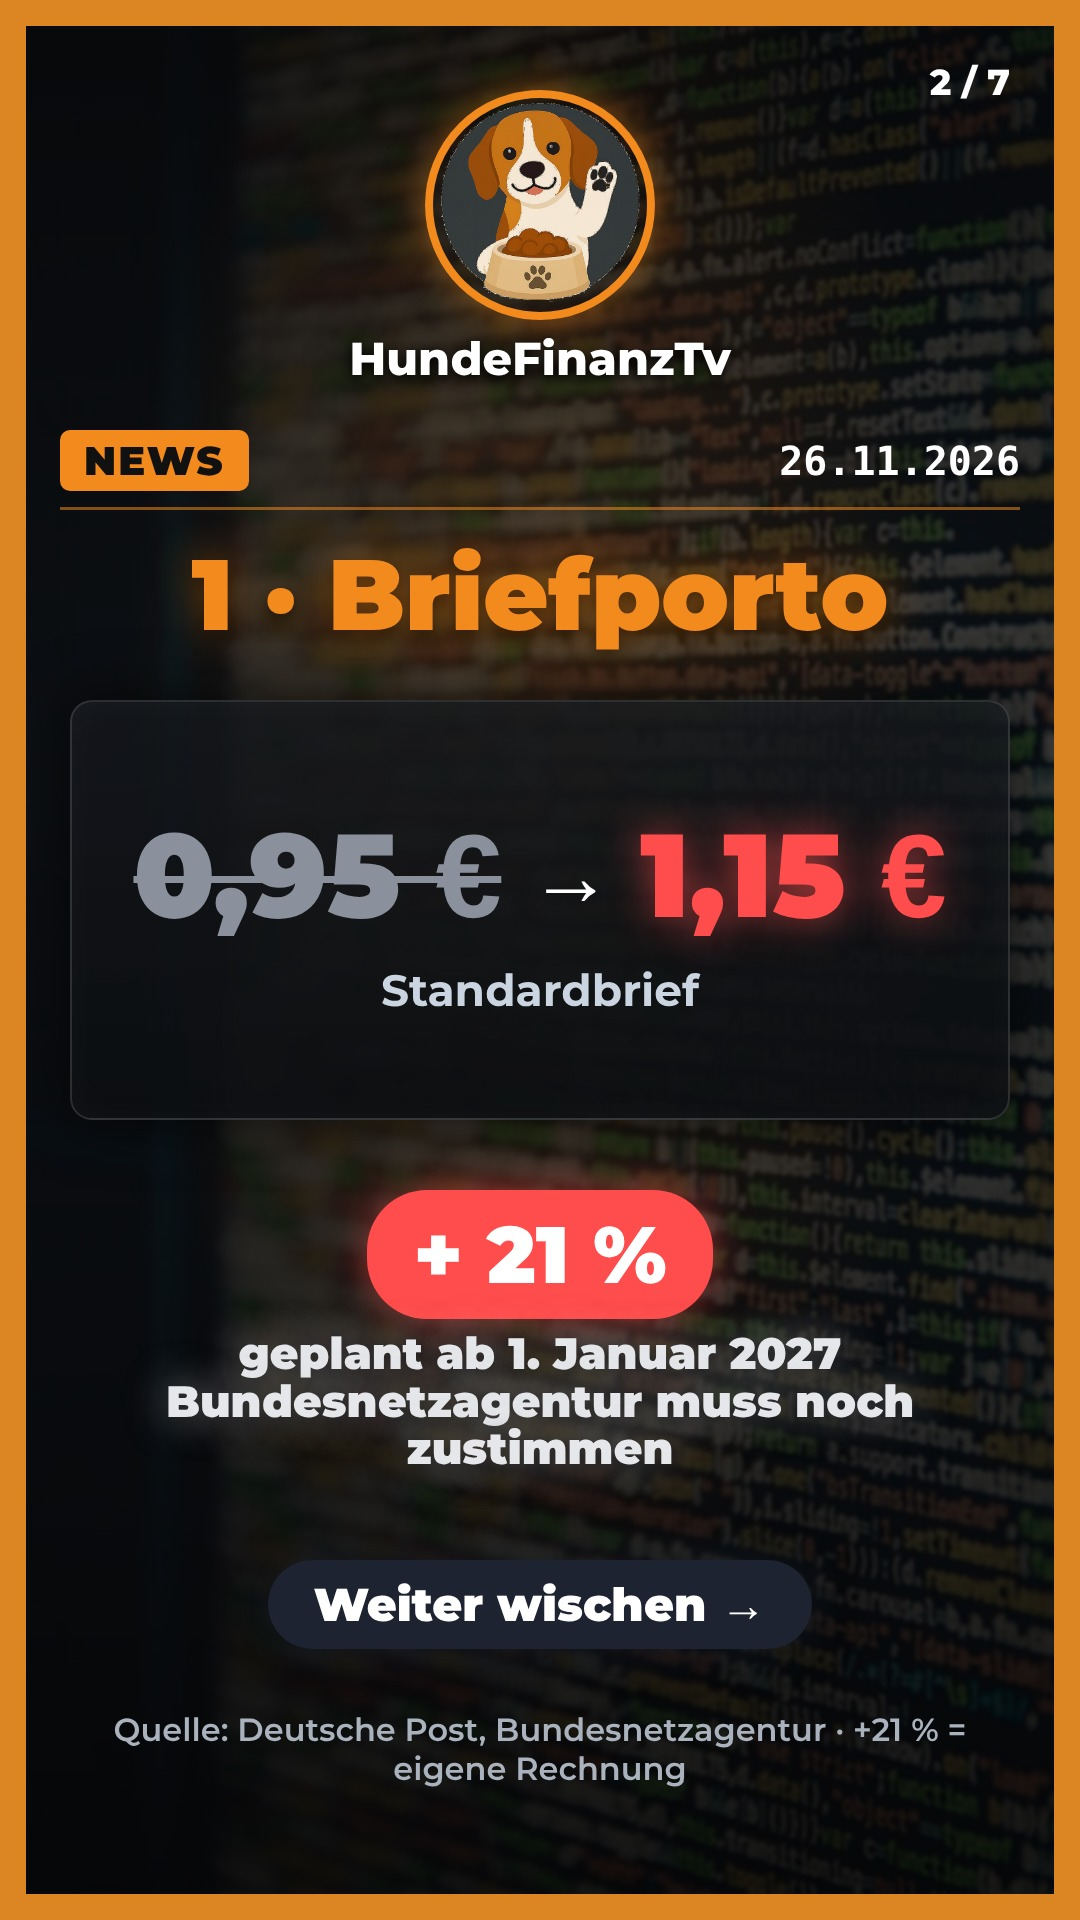
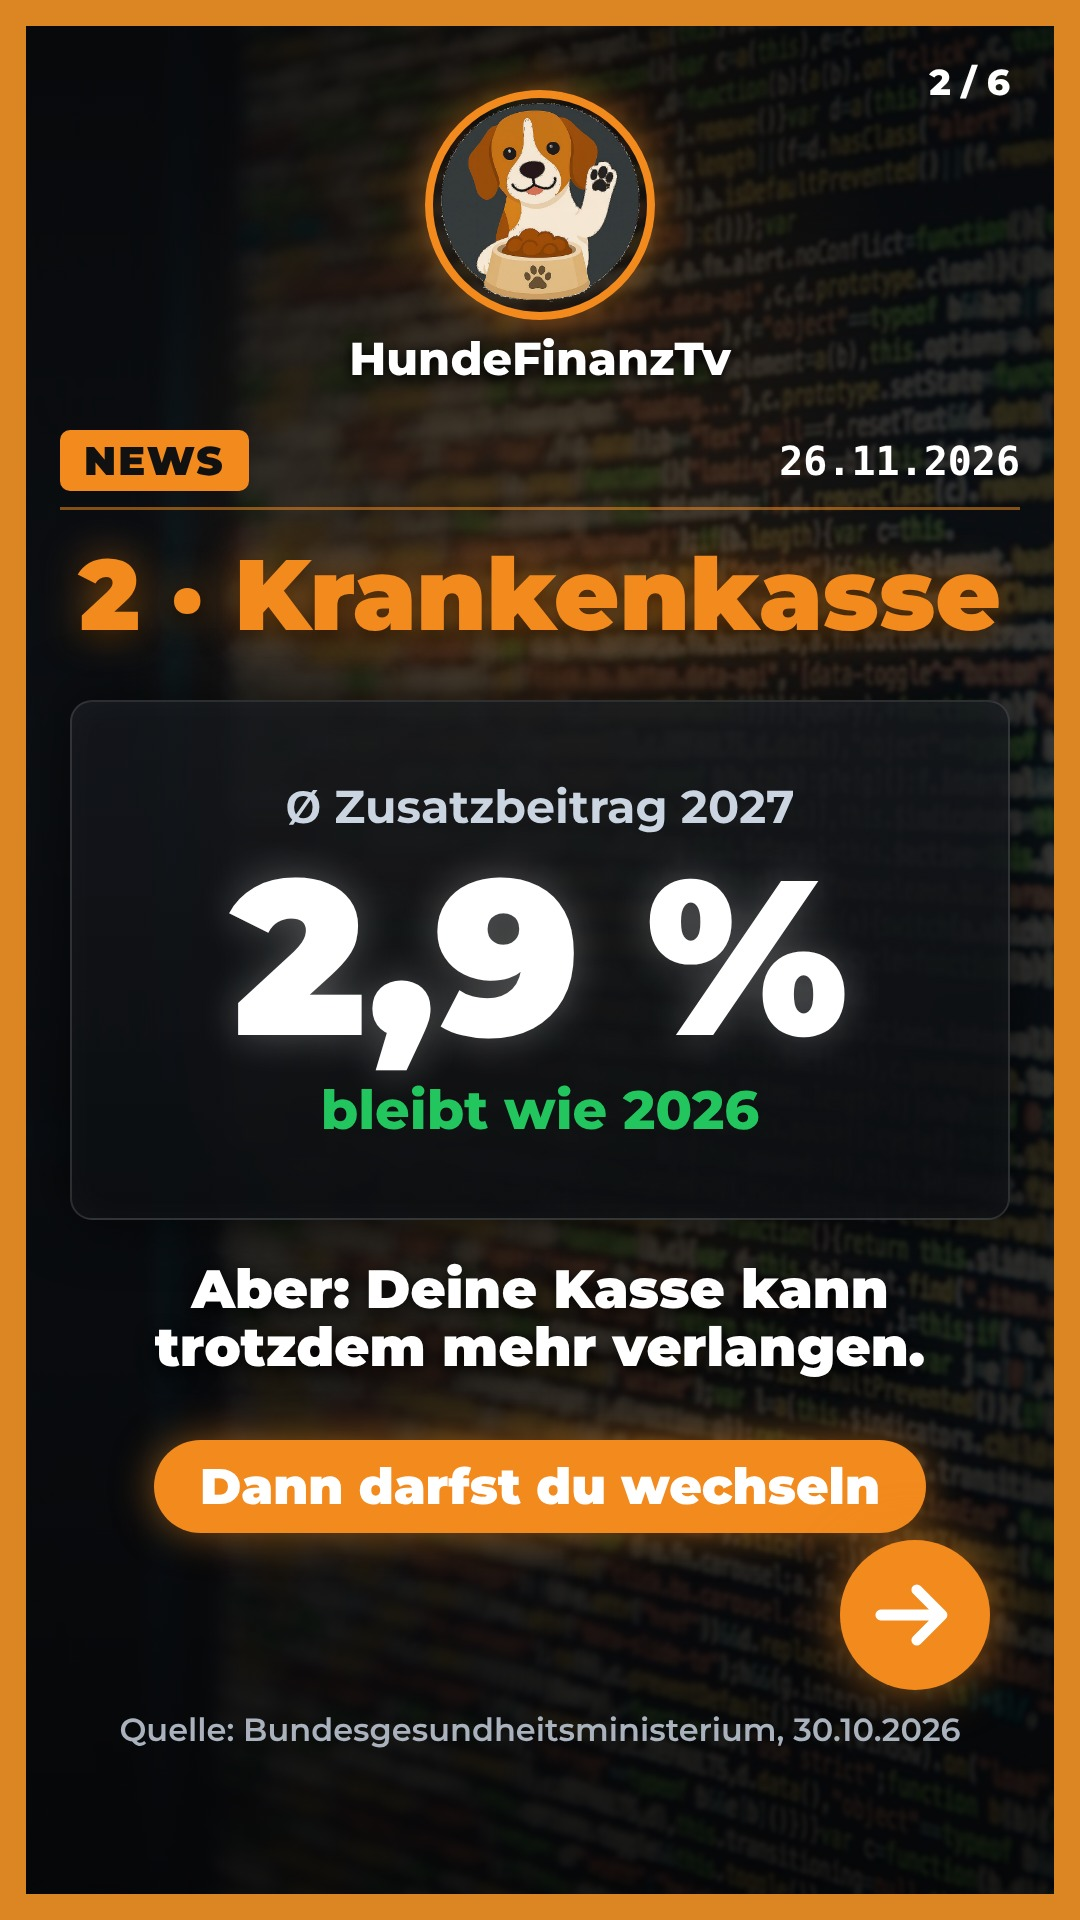
Slideshow: Pfeil statt Wischen, Thumbnail ohne Liste, Zählung ab Inhalt

diff --git a/slides/2027-teurer/dunkel.py b/slides/2027-teurer/dunkel.py
@@ -1,5 +1,5 @@
 #!/usr/bin/env python3
-"""Slideshow „2027 wird teurer“ DUNKEL (26.11.2026, 9:16). Bild 01 = Thumbnail (ohne Zähler/Stand/Wischen)."""
+"""Slideshow „2027 wird teurer“ DUNKEL (26.11.2026, 9:16). thumbnail.jpg = Titelbild mit Pfeil, zählt NICHT mit; Bilder 01–06 = 1/6–6/6."""
 import os
 import sys
 sys.path.insert(0, "/home/user/tiktok-videos/scripts")
@@ -10,43 +10,41 @@ OUT = "/home/user/tiktok-videos/renders/slides/2027-teurer-dunkel/"
 POSTF = sd.L + "deutsche-post.svg"
 HAS_POST = os.path.exists(POSTF) and b"<svg" in open(POSTF, "rb").read(400)
 D = "26.11.2026"
-W = lambda: sd.pille("Weiter wischen →", 1560, "#1d2330", 46)  # noqa: E731
+W = lambda: sd.pfeil(1540)  # noqa: E731
 
 
 def liste(zeilen):
     return "".join(f'<div style="display:flex;width:100%;align-items:center;gap:22px;font-weight:800;font-size:46px;padding:14px 0"><span style="color:{O}">{i}</span>{t}</div>' for i, t in zeilen)
 
 
-s1 = (sd.kopf(D) + sd.txt("Ab Januar 2027", 560, 84) + sd.txt("wird vieles", 660, 120) + sd.txt("TEURER", 800, 215, R)
-      + sd.glas(liste([("1", "Briefporto"), ("2", "Krankenkasse"), ("3", "Beitragsgrenze Kranken"), ("4", "Beitragsgrenze Rente")]), 1120, 400))
-s2 = (sd.kopf(D, nr="2 / 7") + sd.txt("1 · Briefporto", 540, 100, O)
+s1 = (sd.kopf(D) + sd.txt("Ab Januar 2027", 600, 90) + sd.txt("wird vieles", 710, 130) + sd.txt("TEURER", 860, 230, R) + sd.pfeil(1250, 260))
+s2 = (sd.kopf(D, nr="1 / 6") + sd.txt("1 · Briefporto", 540, 100, O)
       + sd.glas((f'<img src="file://{POSTF}" style="height:110px;margin-bottom:26px"/>' if HAS_POST else "") + sd.von_nach("0,95 €", "1,15 €", "Standardbrief", 118), 700, 420)
       + sd.pille("+ 21 %", 1190, R, 80) + sd.txt("geplant ab 1. Januar 2027<br>Bundesnetzagentur muss noch zustimmen", 1330, 44, "#e5e7eb")
       + W() + sd.quelle("Quelle: Deutsche Post, Bundesnetzagentur · +21 % = eigene Rechnung"))
-s3 = (sd.kopf(D, nr="3 / 7") + sd.txt("2 · Krankenkasse", 540, 100, O)
+s3 = (sd.kopf(D, nr="2 / 6") + sd.txt("2 · Krankenkasse", 540, 100, O)
       + sd.glas('<div style="font-weight:700;font-size:46px;color:#cbd5e1">Ø Zusatzbeitrag 2027</div>'
                 f'<div style="font-weight:900;font-size:220px;line-height:1.1;text-shadow:0 0 40px #fff4">2,9 %</div><div style="font-weight:800;font-size:54px;color:{G}">bleibt wie 2026</div>', 700, 520)
       + sd.txt("Aber: Deine Kasse kann<br>trotzdem mehr verlangen.", 1260, 54) + sd.pille("Dann darfst du wechseln", 1440, O, 50)
       + W() + sd.quelle("Quelle: Bundesgesundheitsministerium, 30.10.2026"))
-s4 = (sd.kopf(D, nr="4 / 7") + sd.txt("3 · Krankenversicherung", 540, 70, O)
+s4 = (sd.kopf(D, nr="3 / 6") + sd.txt("3 · Krankenversicherung", 540, 70, O)
       + sd.glas(sd.von_nach("5.812,50 €", "6.375 €", "Beitragsgrenze pro Monat", 72), 680, 400)
       + sd.txt("Bis zu diesem Gehalt zahlst du<br>Beiträge. Alles darüber ist frei.", 1150, 48) + sd.pille("Trifft Gutverdiener", 1370, R, 54)
       + W() + sd.quelle("Quelle: Bundesregierung, Kabinett 7.10.2026 · Bundesrat steht noch aus"))
-s5 = (sd.kopf(D, nr="5 / 7") + sd.txt("Was heißt das?", 540, 110, O)
+s5 = (sd.kopf(D, nr="4 / 6") + sd.txt("Was heißt das?", 540, 110, O)
       + sd.glas('<div style="font-weight:700;font-size:46px;color:#cbd5e1">Bei 6.375 € brutto und mehr</div>'
                 f'<div style="font-weight:900;font-size:190px;line-height:1.1;color:{R};text-shadow:0 0 50px {R}aa">+ 49 €</div><div style="font-weight:800;font-size:54px">im Monat für dich</div>', 700, 520)
       + sd.txt("nur Krankenversicherung,<br>Anteil Arbeitnehmer", 1260, 50, "#e5e7eb") + W()
       + sd.quelle("Eigene Rechnung: 562,50 € × 8,75 % (14,6 % + 2,9 % Zusatz, geteilt)"))
-s6 = (sd.kopf(D, nr="6 / 7") + sd.txt("4 · Rentenversicherung", 540, 70, O)
+s6 = (sd.kopf(D, nr="5 / 6") + sd.txt("4 · Rentenversicherung", 540, 70, O)
       + sd.glas(sd.von_nach("8.450 €", "8.850 €", "Beitragsgrenze pro Monat", 92), 680, 400)
       + sd.txt("Wer mehr verdient, zahlt auf<br>mehr Gehalt Rentenbeiträge.", 1150, 48) + sd.pille("+ 400 € mehr Grenze", 1370, R, 54)
       + W() + sd.quelle("Quelle: Deutsche Rentenversicherung, Kabinett 7.10.2026"))
-s7 = (sd.kopf(D, nr="7 / 7") + sd.txt('HundeFinanz<span style="color:#f28a1e">Tv</span>', 600, 100)
+s7 = (sd.kopf(D, nr="6 / 6") + sd.txt('HundeFinanz<span style="color:#f28a1e">Tv</span>', 600, 100)
       + sd.pille("+ Folgen", 800, O, 70) + sd.pille("Speichern · Teilen", 960, "#1d2330", 60) + sd.txt("Jeden Tag neue Geld-Tipps", 1150, 56)
       + sd.glas('<div style="font-weight:700;font-size:40px;text-align:center;line-height:1.3">Merk dir:<br>Mehr Beiträge, weniger Netto.</div>', 1300, 220)
       + sd.quelle("Keine Anlageberatung, nur eine Erklärung."))
-for i, s in enumerate([s1, s2, s3, s4, s5, s6, s7], 1):
+sd.speichern(s1, OUT + "thumbnail.jpg")
+for i, s in enumerate([s2, s3, s4, s5, s6, s7], 1):
     sd.speichern(s, f"{OUT}{i:02d}.jpg")
-import shutil  # noqa: E402
-shutil.copy(OUT + "01.jpg", "/home/user/tiktok-videos/renders/slides/2027-teurer-dunkel/thumbnail.jpg")
 print("fertig, Post-Logo:", HAS_POST)

diff --git a/scripts/slide_dark.py b/scripts/slide_dark.py
@@ -50,6 +50,13 @@ def von_nach(a, b, einheit, gr=118):
             f'<div style="font-weight:700;font-size:44px;color:#cbd5e1;margin-top:16px">{einheit}</div>')
 
 
+def pfeil(y, d=150):
+    """Oranger Pfeil nach rechts (Nutzer 26.11.: statt „Weiter wischen“). d=150 → rechts unten; d>=240 → mittig (Thumbnail)."""
+    x = (1080 - d) // 2 if d >= 240 else 1080 - d - 90
+    return (f'<div style="position:absolute;left:{x}px;top:{y}px;width:{d}px;height:{d}px;border-radius:50%;background:{O};box-shadow:0 0 50px {O}aa;z-index:6;display:flex;align-items:center;justify-content:center">'
+            f'<svg viewBox="0 0 100 100" style="width:{d*0.6:.0f}px;height:{d*0.6:.0f}px"><path d="M12 50 H78 M52 22 L80 50 L52 78" fill="none" stroke="#fff" stroke-width="12" stroke-linecap="round" stroke-linejoin="round"/></svg></div>')
+
+
 def laufband(t, y=1600):
     return (f'<div style="position:absolute;left:0;top:{y}px;width:1080px;height:90px;background:#0b0d0ef2;border-top:4px solid {G}77;border-bottom:4px solid {G}77;z-index:6;'
             f'overflow:hidden;white-space:nowrap;font-family:monospace;font-weight:700;font-size:48px;line-height:82px;color:{ROT}">{t}</div>')

diff --git a/CLAUDE.md b/CLAUDE.md
@@ -56,3 +56,4 @@ Videos werden mit HyperFrames (HTML + GSAP → MP4) gebaut. Skills: `.claude/ski
 - **Tagesplan ab 26.11. (Nutzer):** 1) mittags 1 Video, 2) nachmittags 1 **Bilder-Slideshow** (Karussell, Content für Instagram + TikTok, Bilder im selben hellen News-Look wie die Videos, professionell, Orange-Rahmen, Logos, Beagle-Marke), 3) abends Börsenrückblick (mit Laufband). Slideshow = TEST, Zahlen immer geprüft + Quellen, Beschreibung + Tags wie bei Videos, Ausgabe als JPGs in `renders/slides/<name>/` (Slide 1 = stärkster Hook, letzte Slide = Folgen-CTA + Hinweis).
 - **DUNKLER Look ab 26.11. (Nutzer, Vorbild Bitcoin-Wochenend-Crash-Video vom 14.11.):** Hintergrund wieder DUNKEL (nicht ganz schwarz: abgedunkeltes Code-/Themenfoto mit Vignette, oranger Glow, oranger Rahmen), oben großer Beagle-Kreis + „HundeFinanzTv“, NEWS-Pille + Datum, Neon-Zahlen (rot/grün/orange), dunkle Glas-Karten, Laufband dunkel. Gilt für Slideshows UND Videos (hell/weiß = abgelehnt). Slideshow-Baukasten: `scripts/slide_dark.py`, Thumbnails passend im schwarzen Cover-Stil (`cover_dark.py`).
 - **Slideshow-Thumbnail (Nutzer 26.11.):** Thumbnail = das ERSTE Bild im dunklen Look (Beagle, NEWS+Datum, große Überschrift, Kurzliste), aber OHNE „1/7“, OHNE „Stand … geprüfte Zahlen“ und OHNE „Weiter wischen“. Gefiel ihm so (Vorlage: `slides/2027-teurer/dunkel.py`, Bild 01).
+- **Slideshow-Pfeil + Zählung (Nutzer 26.11.):** Statt „Weiter wischen“-Button ein ORANGER PFEIL nach rechts (`sd.pfeil`): Thumbnail mittig groß, auf den Bildern rechts unten. Thumbnail hat KEINE Kurzliste und zählt NICHT mit: erstes Inhaltsbild = „1 / n“. Letzte Folie (Folgen) ohne Pfeil.
